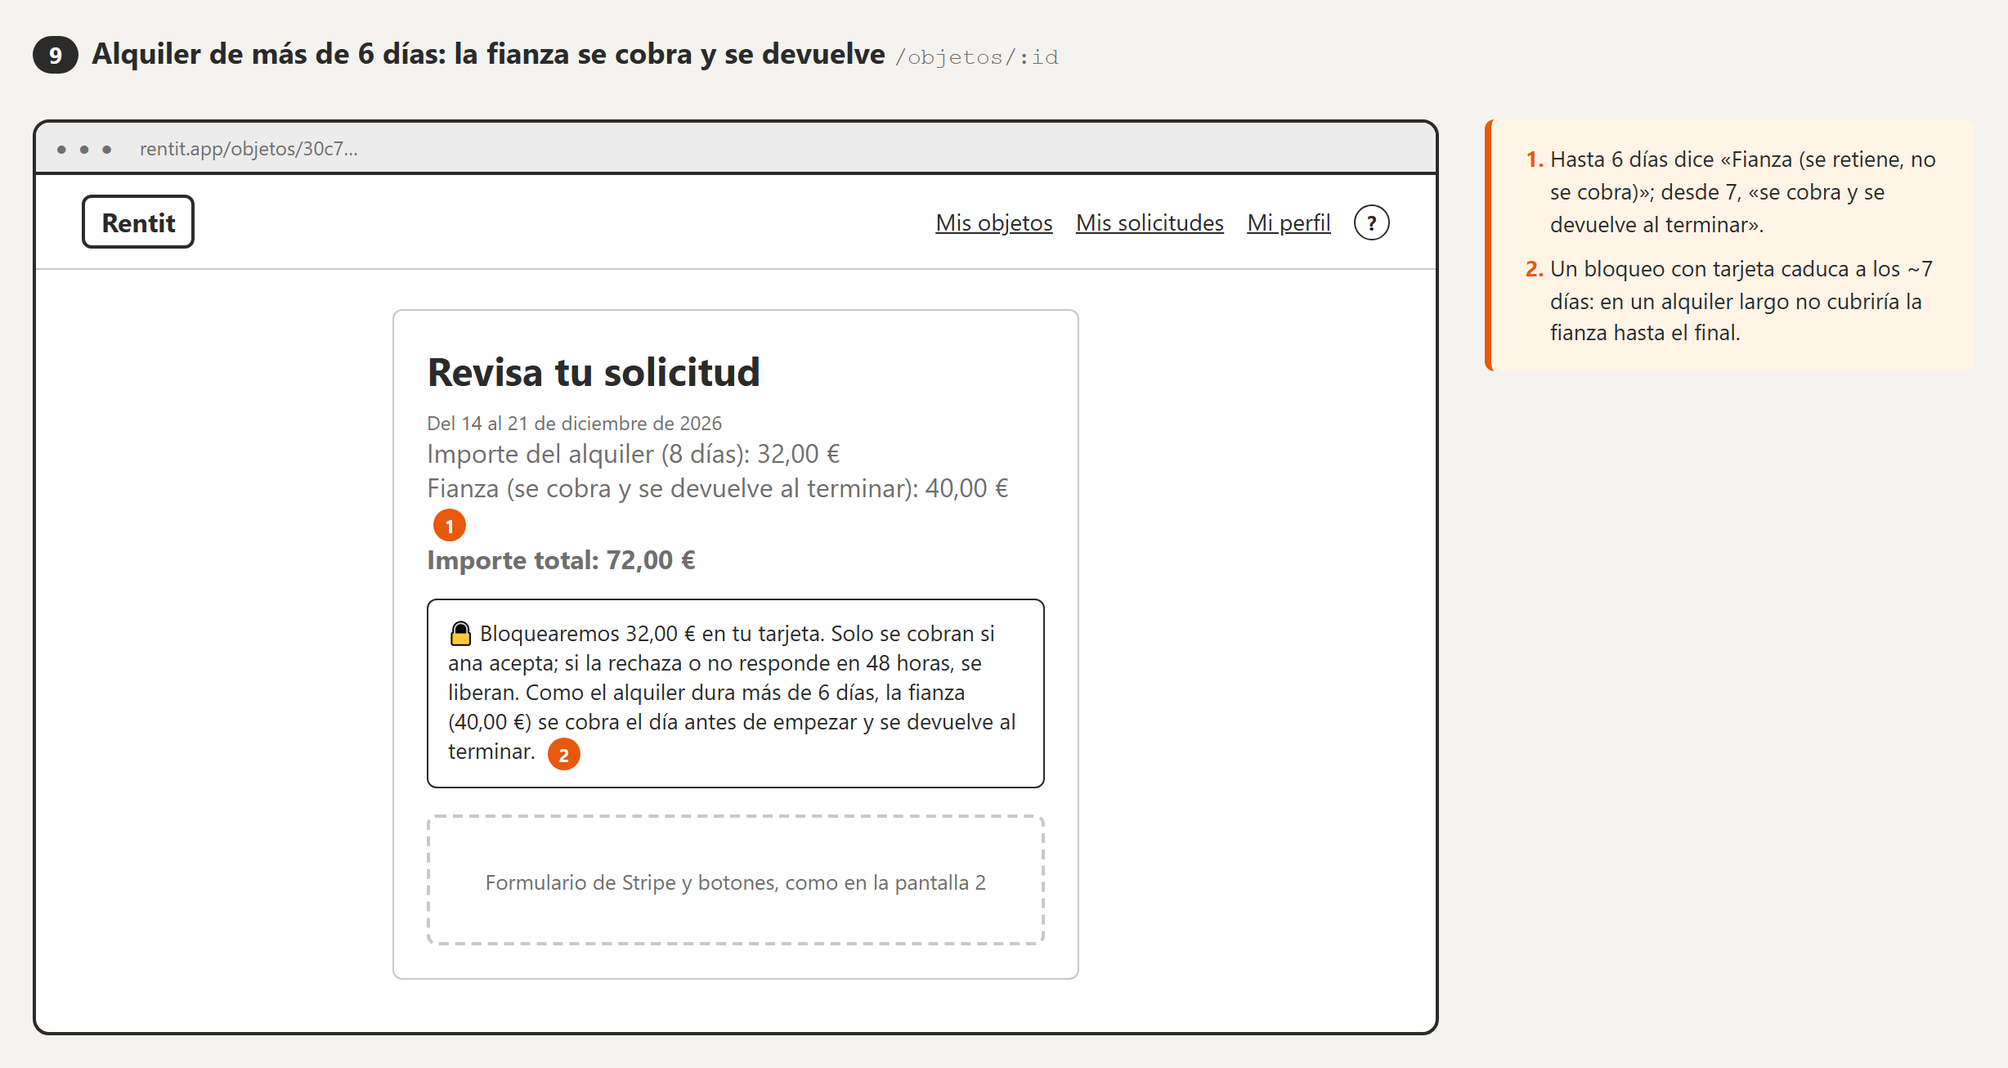
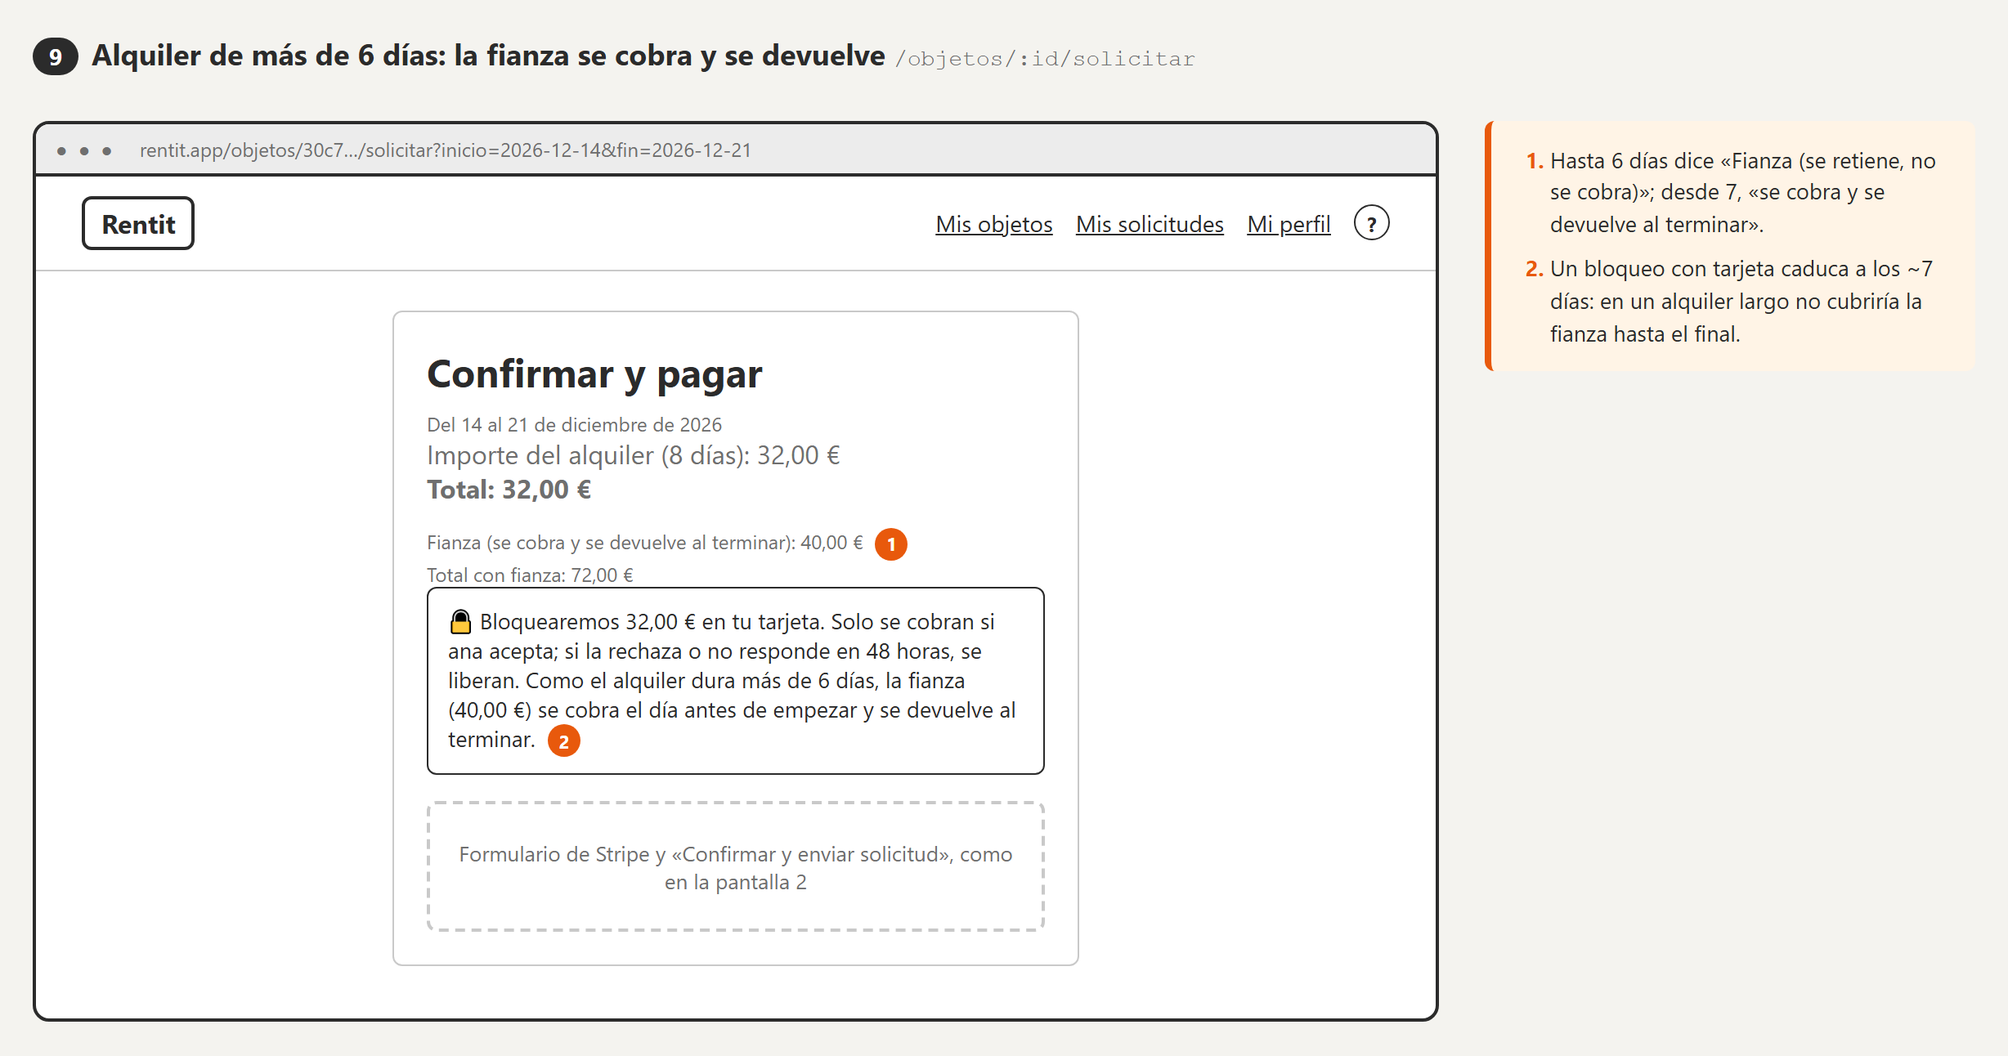
docs(wireframe): US-07.01 página «Confirmar y pagar» y total sin fianza destacado (#348)

diff --git a/docs/wireframes/US-07.01-registrar-pago/index.html b/docs/wireframes/US-07.01-registrar-pago/index.html
@@ -23,6 +23,13 @@
         <strong>reserva inmediata</strong> se cobra al momento. Ya no hay que volver a «Mis solicitudes» para pagar.
       </p>
       <p class="wf-meta">
+        <strong>Cambio del 17/11 (Kai):</strong> el resumen y el pago ya no están en el panel de la ficha, donde parecían
+        un paso más. Pasan a una <strong>página propia, «Confirmar y pagar»</strong> (<code>/objetos/:id/solicitar</code>),
+        como en otras webs de alquiler: queda claro que se está confirmando y pagando, hay sitio para el formulario de
+        Stripe en el móvil y «Atrás» del navegador vuelve a la ficha. Las fechas (y la entrega, US-05.01) se siguen
+        eligiendo en el panel.
+      </p>
+      <p class="wf-meta">
         Pantallas 1–6 y 9: lo que hace esta tarea. Pantallas 7, 8 y 10 (reserva inmediata): «si da tiempo», según la
         historia; si no, pasan al Sprint 3.
       </p>
@@ -65,37 +72,29 @@
         </div>
       </div>
       <ol class="wf-notas">
-        <li>Igual que hoy (US-04.01): con las fechas libres se activa «Solicitar alquiler». Pasa al resumen en el mismo panel, que ahora incluye el pago.</li>
+        <li>Igual que hoy (US-04.01): con las fechas libres se activa «Solicitar alquiler». Ya no abre el resumen en el panel: lleva a la página «Confirmar y pagar» con las fechas elegidas.</li>
       </ol>
     </section>
 
-    <p class="wf-flecha">Clic en «Solicitar alquiler»</p>
+    <p class="wf-flecha">Clic en «Solicitar alquiler»: se abre una página nueva</p>
 
     <section class="wf-pantalla" data-captura="2-resumen-con-tarjeta">
-      <h2><span class="wf-paso">2</span>Resumen y tarjeta: solicitar es pagar <code>/objetos/:id</code></h2>
+      <h2><span class="wf-paso">2</span>Página «Confirmar y pagar»: solicitar es pagar <code>/objetos/:id/solicitar</code></h2>
       <div class="wf-dispositivos">
-        <div class="wf-escritorio" data-url="rentit.app/objetos/3f2a…">
+        <div class="wf-escritorio" data-url="rentit.app/objetos/3f2a…/solicitar?inicio=2026-12-05&amp;fin=2026-12-06">
           <nav class="wf-nav">
             <span class="wf-logo">Rentit</span>
             <span class="wf-enlaces"><span class="wf-enlace">Mis objetos</span><span class="wf-enlace">Mis solicitudes</span><span class="wf-enlace">Mi perfil</span><span class="wf-icono-ayuda" title="Ayuda">?</span></span>
           </nav>
           <div class="wf-contenido">
+            <p class="wf-ayuda"><span class="wf-enlace">← Volver a Hidrolimpiadora Kärcher</span> <span class="wf-marca">1</span></p>
+            <h3 class="wf-h1">Confirmar y pagar</h3>
             <div class="wf-columnas">
-              <div>
-                <div class="wf-imagen"></div>
-                <p class="wf-texto"></p>
-                <h3 class="wf-h1">Hidrolimpiadora Kärcher</h3>
-                <div class="wf-lineas"><span></span><span></span></div>
-              </div>
               <div class="wf-tarjeta">
-                <h3 class="wf-h1">Revisa tu solicitud</h3>
-                <p class="wf-texto"><strong>Hidrolimpiadora Kärcher</strong> · 8,00 € / día</p>
-                <p class="wf-ayuda">Desde: sábado, 5 de diciembre de 2026<br />Hasta: domingo, 6 de diciembre de 2026</p>
-                <p class="wf-texto">Importe del alquiler (2 días): 16,00 €<br />Fianza (se retiene, no se cobra): 50,00 €</p>
-                <p class="wf-texto"><strong>Importe total: 66,00 €</strong> <span class="wf-marca">1</span></p>
-                <p class="wf-aviso">🔒 Bloquearemos 16,00 € en tu tarjeta. <strong>Solo se cobran si ana acepta</strong>; si la rechaza o no responde en 48 horas, se liberan. La fianza (50,00 €) se bloquea el día antes de empezar y se libera al terminar, sin cobrarla. <span class="wf-marca">2</span></p>
+                <p class="wf-texto"><strong>Pago</strong> <span class="wf-marca">3</span></p>
+                <p class="wf-aviso">🔒 Bloquearemos 16,00 € en tu tarjeta. <strong>Solo se cobran si ana acepta</strong>; si la rechaza o no responde en 48 horas, se liberan. La fianza (50,00 €) se bloquea el día antes de empezar y se libera al terminar, sin cobrarla.</p>
                 <div class="wf-tarjeta">
-                  <p class="wf-texto"><strong>Formulario de Stripe</strong> <span class="wf-marca">3</span></p>
+                  <p class="wf-texto"><strong>Formulario de Stripe</strong> <span class="wf-marca">4</span></p>
                   <div class="wf-fila"><span class="wf-boton wf-secundario">Apple Pay</span><span class="wf-boton wf-secundario">Google Pay</span></div>
                   <p class="wf-ayuda">o con tarjeta</p>
                   <div class="wf-campo"><label>Número de tarjeta</label><div class="wf-input">1234 1234 1234 1234</div></div>
@@ -105,10 +104,17 @@
                   </div>
                 </div>
                 <p class="wf-ayuda">Modo de prueba: no se mueve dinero real.<br /><code>4242 4242 4242 4242</code> se acepta · <code>4000 0000 0000 0002</code> se rechaza</p>
-                <div class="wf-fila">
-                  <span class="wf-boton wf-secundario">Volver</span>
-                  <span class="wf-boton">Enviar solicitud</span><span class="wf-marca">4</span>
-                </div>
+                <span class="wf-boton wf-ancho">Confirmar y enviar solicitud</span><span class="wf-marca">5</span>
+                <p class="wf-ayuda">Al confirmar, la solicitud llega a ana y se bloquean 16,00 €.</p>
+              </div>
+              <div class="wf-tarjeta">
+                <p class="wf-texto"><strong>Tu solicitud</strong> <span class="wf-marca">2</span></p>
+                <div class="wf-imagen"></div>
+                <p class="wf-texto"><strong>Hidrolimpiadora Kärcher</strong><br />8,00 € / día · de ana</p>
+                <p class="wf-ayuda">Desde: sábado, 5 de diciembre de 2026<br />Hasta: domingo, 6 de diciembre de 2026 · <span class="wf-enlace">Cambiar</span></p>
+                <p class="wf-texto">Importe del alquiler (2 días): 16,00 €</p>
+                <h3 class="wf-h1">Total: 16,00 €</h3>
+                <p class="wf-ayuda">Fianza (se retiene, no se cobra): 50,00 €<br />Total con fianza: 66,00 €</p>
               </div>
             </div>
           </div>
@@ -116,48 +122,57 @@
         <div class="wf-movil">
           <nav class="wf-nav"><span class="wf-logo">Rentit</span><span class="wf-icono-ayuda" title="Ayuda">?</span></nav>
           <div class="wf-contenido">
+            <p class="wf-ayuda"><span class="wf-enlace">← Volver</span></p>
+            <h3 class="wf-h1">Confirmar y pagar</h3>
             <div class="wf-tarjeta">
-              <h3 class="wf-h1">Revisa tu solicitud</h3>
-              <p class="wf-ayuda">5 – 6 de diciembre de 2026</p>
-              <p class="wf-texto">Alquiler (2 días): 16,00 €<br />Fianza: 50,00 €<br /><strong>Importe total: 66,00 €</strong></p>
-              <p class="wf-aviso">🔒 Bloquearemos 16,00 €. Solo se cobran si ana acepta.</p>
-              <div class="wf-tarjeta">
-                <p class="wf-texto"><strong>Formulario de Stripe</strong></p>
-                <span class="wf-boton wf-secundario wf-ancho">Apple Pay</span>
-                <p class="wf-ayuda">o con tarjeta</p>
-                <div class="wf-campo"><label>Número de tarjeta</label><div class="wf-input">1234 1234 1234 1234</div></div>
-                <div class="wf-fila">
-                  <div class="wf-campo"><label>Caducidad</label><div class="wf-input">MM/AA</div></div>
-                  <div class="wf-campo"><label>CVC</label><div class="wf-input">123</div></div>
-                </div>
-              </div>
-              <p class="wf-texto"></p>
-              <span class="wf-boton wf-ancho">Enviar solicitud</span>
-              <p class="wf-texto"></p>
-              <span class="wf-boton wf-secundario wf-ancho">Volver</span>
+              <p class="wf-texto"><strong>Hidrolimpiadora Kärcher</strong></p>
+              <p class="wf-ayuda">5 – 6 de diciembre de 2026 · <span class="wf-enlace">Cambiar</span></p>
+              <p class="wf-texto">Alquiler (2 días): 16,00 €<br /><strong>Total: 16,00 €</strong></p>
+              <p class="wf-ayuda">Fianza: 50,00 € · Total con fianza: 66,00 €</p>
             </div>
+            <p class="wf-aviso">🔒 Bloquearemos 16,00 €. Solo se cobran si ana acepta.</p>
+            <div class="wf-tarjeta">
+              <p class="wf-texto"><strong>Formulario de Stripe</strong></p>
+              <span class="wf-boton wf-secundario wf-ancho">Apple Pay</span>
+              <p class="wf-ayuda">o con tarjeta</p>
+              <div class="wf-campo"><label>Número de tarjeta</label><div class="wf-input">1234 1234 1234 1234</div></div>
+              <div class="wf-fila">
+                <div class="wf-campo"><label>Caducidad</label><div class="wf-input">MM/AA</div></div>
+                <div class="wf-campo"><label>CVC</label><div class="wf-input">123</div></div>
+              </div>
+            </div>
+            <p class="wf-texto"></p>
+            <span class="wf-boton wf-ancho">Confirmar y enviar solicitud</span>
           </div>
           <div class="wf-barra-inferior"><span>Inicio</span><span>Mis objetos</span><span>Mis solicitudes</span><span>Mi perfil</span></div>
         </div>
       </div>
       <ol class="wf-notas">
         <li>
-          Criterio 2: objeto, fechas, precio del alquiler, fianza e importe total (alquiler + fianza + entrega si hay
-          rider, US-05.01). El importe destacado es el total.
+          Página propia, sin el panel de la ficha. «Volver» y «Atrás» del navegador llevan a la ficha con las fechas que
+          tenías. Las fechas van en la dirección (<code>?inicio=…&amp;fin=…</code>), así que recargar no las pierde.
+          Necesita sesión, como solicitar hoy.
+        </li>
+        <li>
+          Criterio 2: «Tu solicitud», con la foto, el propietario, las fechas y el precio (más la entrega si hay
+          rider, US-05.01: el modo y la hora salen aquí también). El importe destacado es el <strong>total sin
+          fianza</strong>, lo que se bloquea ahora; debajo, más pequeño, la fianza y el total con fianza, para que la
+          fianza no parezca parte del pago. «Cambiar» vuelve a la ficha. En
+          el escritorio va a la derecha y se queda fija al bajar.
         </li>
         <li>Qué pasa con el dinero, antes de meter la tarjeta: se bloquea, no se cobra hasta que el propietario acepta.</li>
         <li>
           Criterio 3: el <strong>Payment Element de Stripe</strong> en modo de prueba, con las tarjetas de prueba
           indicadas. Muestra lo que admite el dispositivo: tarjeta, Apple Pay (Safari) o Google Pay (Chrome). Los
           wallets solo salen con HTTPS y el dominio registrado en Stripe, no en <code>localhost</code>. Los datos van del
-          navegador a Stripe: Rentit solo recibe un token. Hasta que T10 tenga Stripe, la web usa campos de tarjeta
-          provisionales.
+          navegador a Stripe: Rentit solo recibe un token.
         </li>
         <li>
-          Envía la solicitud con el token de Stripe (<code>POST /reservas</code> con <code>confirmationTokenId</code>).
-          Mientras se procesa dice «Procesando el pago…» y los botones están desactivados. Si el banco pide verificación
-          (3D Secure), Stripe la muestra encima y después se termina de enviar. Con datos no válidos, el error sale en el
-          formulario de Stripe y no se llama a la API.
+          Un solo botón principal, «Confirmar y enviar solicitud», con el importe que se bloquea debajo. Envía la
+          solicitud con el token de Stripe (<code>POST /reservas</code> con <code>confirmationTokenId</code>). Mientras se
+          procesa dice «Procesando el pago…» y no se puede volver a pulsar. Si el banco pide verificación (3D Secure),
+          Stripe la muestra encima y después se termina de enviar. Con datos no válidos, el error sale en el formulario
+          de Stripe y no se llama a la API.
         </li>
       </ol>
     </section>
@@ -165,23 +180,34 @@
     <p class="wf-flecha">Si la tarjeta se rechaza</p>
 
     <section class="wf-pantalla" data-captura="3-tarjeta-rechazada">
-      <h2><span class="wf-paso">3</span>Error: tarjeta rechazada <code>/objetos/:id</code></h2>
+      <h2><span class="wf-paso">3</span>Errores en «Confirmar y pagar» <code>/objetos/:id/solicitar</code></h2>
       <div class="wf-dispositivos">
-        <div class="wf-escritorio" data-url="rentit.app/objetos/3f2a…">
+        <div class="wf-escritorio" data-url="rentit.app/objetos/3f2a…/solicitar?inicio=2026-12-05&amp;fin=2026-12-06">
           <nav class="wf-nav">
             <span class="wf-logo">Rentit</span>
             <span class="wf-enlaces"><span class="wf-enlace">Mis objetos</span><span class="wf-enlace">Mis solicitudes</span><span class="wf-enlace">Mi perfil</span><span class="wf-icono-ayuda" title="Ayuda">?</span></span>
           </nav>
           <div class="wf-contenido">
-            <div class="wf-centrado wf-tarjeta">
-              <h3 class="wf-h1">Revisa tu solicitud</h3>
-              <p class="wf-texto"><strong>Importe total: 66,00 €</strong></p>
-              <div class="wf-caja">Formulario de Stripe con la tarjeta 4000 0000 0000 0002</div>
-              <p class="wf-texto"></p>
-              <p class="wf-aviso">⚠ Tu tarjeta ha sido rechazada. <span class="wf-marca">1</span></p>
-              <div class="wf-fila">
-                <span class="wf-boton wf-secundario">Volver</span>
-                <span class="wf-boton">Enviar solicitud</span><span class="wf-marca">2</span>
+            <p class="wf-ayuda"><span class="wf-enlace">← Volver a Hidrolimpiadora Kärcher</span></p>
+            <h3 class="wf-h1">Confirmar y pagar</h3>
+            <div class="wf-columnas">
+              <div class="wf-tarjeta">
+                <p class="wf-texto"><strong>Pago</strong></p>
+                <div class="wf-caja">Formulario de Stripe con la tarjeta 4000 0000 0000 0002</div>
+                <p class="wf-texto"></p>
+                <p class="wf-aviso">⚠ Tu tarjeta ha sido rechazada. <span class="wf-marca">1</span></p>
+                <span class="wf-boton wf-ancho">Confirmar y enviar solicitud</span>
+                <p class="wf-texto"></p>
+                <p class="wf-aviso">⚠ Alguien acaba de reservar esas fechas. <span class="wf-enlace">Elegir otras fechas</span> <span class="wf-marca">2</span></p>
+              </div>
+              <div class="wf-tarjeta">
+                <p class="wf-texto"><strong>Tu solicitud</strong> <span class="wf-marca">2</span></p>
+                <div class="wf-imagen"></div>
+                <p class="wf-texto"><strong>Hidrolimpiadora Kärcher</strong><br />8,00 € / día · de ana</p>
+                <p class="wf-ayuda">Desde: sábado, 5 de diciembre de 2026<br />Hasta: domingo, 6 de diciembre de 2026 · <span class="wf-enlace">Cambiar</span></p>
+                <p class="wf-texto">Importe del alquiler (2 días): 16,00 €</p>
+                <h3 class="wf-h1">Total: 16,00 €</h3>
+                <p class="wf-ayuda">Fianza (se retiene, no se cobra): 50,00 €<br />Total con fianza: 66,00 €</p>
               </div>
             </div>
           </div>
@@ -189,10 +215,14 @@
       </div>
       <ol class="wf-notas">
         <li>
-          Criterio 5: el mensaje viene de la API (<code>402</code>) y sale justo encima de los botones, donde se mira al
-          pulsar. <strong>No se crea la solicitud</strong> y no se bloquea nada.
+          Criterio 5: el mensaje viene de la API (<code>402</code>) y sale justo encima del botón, donde se mira al pulsar.
+          <strong>No se crea la solicitud</strong> y no se bloquea nada. Se queda en la página para probar con otra tarjeta.
         </li>
-        <li>Sigue en el resumen, con el botón activo, para probar con otra tarjeta.</li>
+        <li>
+          Si las fechas dejan de estar libres mientras pagas (<code>409</code> de las fechas), lo dice con el enlace a la
+          ficha para elegir otras. Si se entra en la página sin fechas válidas, con un objeto propio o que ya no está
+          publicado, se vuelve a la ficha.
+        </li>
       </ol>
     </section>
 
@@ -300,7 +330,7 @@
     <p class="wf-flecha">Si da tiempo (si no, Sprint 3): un objeto con reserva inmediata. Todavía no está en la web.</p>
 
     <section class="wf-pantalla" data-captura="7-reserva-inmediata">
-      <h2><span class="wf-paso">7</span>Si da tiempo (si no, Sprint 3): reserva inmediata, se cobra al momento <code>/objetos/:id</code></h2>
+      <h2><span class="wf-paso">7</span>Si da tiempo (si no, Sprint 3): reserva inmediata, se cobra al momento <code>/objetos/:id/solicitar</code></h2>
       <div class="wf-dispositivos">
         <div class="wf-escritorio" data-url="rentit.app/objetos/0dd8…">
           <nav class="wf-nav">
@@ -319,7 +349,8 @@
                 <p class="wf-texto"><strong>6,00 € / día</strong> · Disponible<br />Fianza: 40,00 €</p>
                 <p class="wf-ayuda">⚡ <strong>Reserva inmediata:</strong> sin esperar a que ana acepte. <span class="wf-marca">1</span></p>
                 <h3 class="wf-h1">Revisa tu reserva</h3>
-                <p class="wf-texto">Importe del alquiler (3 días): 18,00 €<br />Fianza (se retiene, no se cobra): 40,00 €<br /><strong>Importe total: 58,00 €</strong></p>
+                <p class="wf-texto">Importe del alquiler (3 días): 18,00 €<br /><strong>Total: 18,00 €</strong></p>
+                <p class="wf-ayuda">Fianza (se retiene, no se cobra): 40,00 € · Total con fianza: 58,00 €</p>
                 <p class="wf-aviso">⚡ <strong>Reserva inmediata.</strong> Se cobran 18,00 € ahora y la reserva queda confirmada, sin esperar a ana. <span class="wf-marca">2</span></p>
                 <div class="wf-caja">Formulario de Stripe, como en la pantalla 2</div>
                 <p class="wf-texto"></p>
@@ -331,7 +362,7 @@
       </div>
       <ol class="wf-notas">
         <li>El propietario lo marca al publicar o editar el objeto (pantalla 10).</li>
-        <li>El título pasa a «Revisa tu reserva» y el aviso dice que se cobra ahora.</li>
+        <li>En la página «Confirmar y pagar» (pantalla 2), el aviso dice que se cobra ahora y el botón es «Reservar y pagar».</li>
         <li>Lleva a «Mis solicitudes» con la reserva ya «Pagada» (pantalla 8).</li>
       </ol>
     </section>
@@ -363,20 +394,21 @@
     <p class="wf-flecha">Variante del resumen: un alquiler de más de 6 días</p>
 
     <section class="wf-pantalla" data-captura="9-alquiler-largo">
-      <h2><span class="wf-paso">9</span>Alquiler de más de 6 días: la fianza se cobra y se devuelve <code>/objetos/:id</code></h2>
+      <h2><span class="wf-paso">9</span>Alquiler de más de 6 días: la fianza se cobra y se devuelve <code>/objetos/:id/solicitar</code></h2>
       <div class="wf-dispositivos">
-        <div class="wf-escritorio" data-url="rentit.app/objetos/30c7…">
+        <div class="wf-escritorio" data-url="rentit.app/objetos/30c7…/solicitar?inicio=2026-12-14&amp;fin=2026-12-21">
           <nav class="wf-nav">
             <span class="wf-logo">Rentit</span>
             <span class="wf-enlaces"><span class="wf-enlace">Mis objetos</span><span class="wf-enlace">Mis solicitudes</span><span class="wf-enlace">Mi perfil</span><span class="wf-icono-ayuda" title="Ayuda">?</span></span>
           </nav>
           <div class="wf-contenido">
             <div class="wf-centrado wf-tarjeta">
-              <h3 class="wf-h1">Revisa tu solicitud</h3>
+              <h3 class="wf-h1">Confirmar y pagar</h3>
               <p class="wf-ayuda">Del 14 al 21 de diciembre de 2026</p>
-              <p class="wf-texto">Importe del alquiler (8 días): 32,00 €<br />Fianza (se cobra y se devuelve al terminar): 40,00 € <span class="wf-marca">1</span><br /><strong>Importe total: 72,00 €</strong></p>
+              <p class="wf-texto">Importe del alquiler (8 días): 32,00 €<br /><strong>Total: 32,00 €</strong></p>
+              <p class="wf-ayuda">Fianza (se cobra y se devuelve al terminar): 40,00 € <span class="wf-marca">1</span><br />Total con fianza: 72,00 €</p>
               <p class="wf-aviso">🔒 Bloquearemos 32,00 € en tu tarjeta. Solo se cobran si ana acepta; si la rechaza o no responde en 48 horas, se liberan. Como el alquiler dura más de 6 días, la fianza (40,00 €) se cobra el día antes de empezar y se devuelve al terminar. <span class="wf-marca">2</span></p>
-              <div class="wf-caja">Formulario de Stripe y botones, como en la pantalla 2</div>
+              <div class="wf-caja">Formulario de Stripe y «Confirmar y enviar solicitud», como en la pantalla 2</div>
             </div>
           </div>
         </div>
